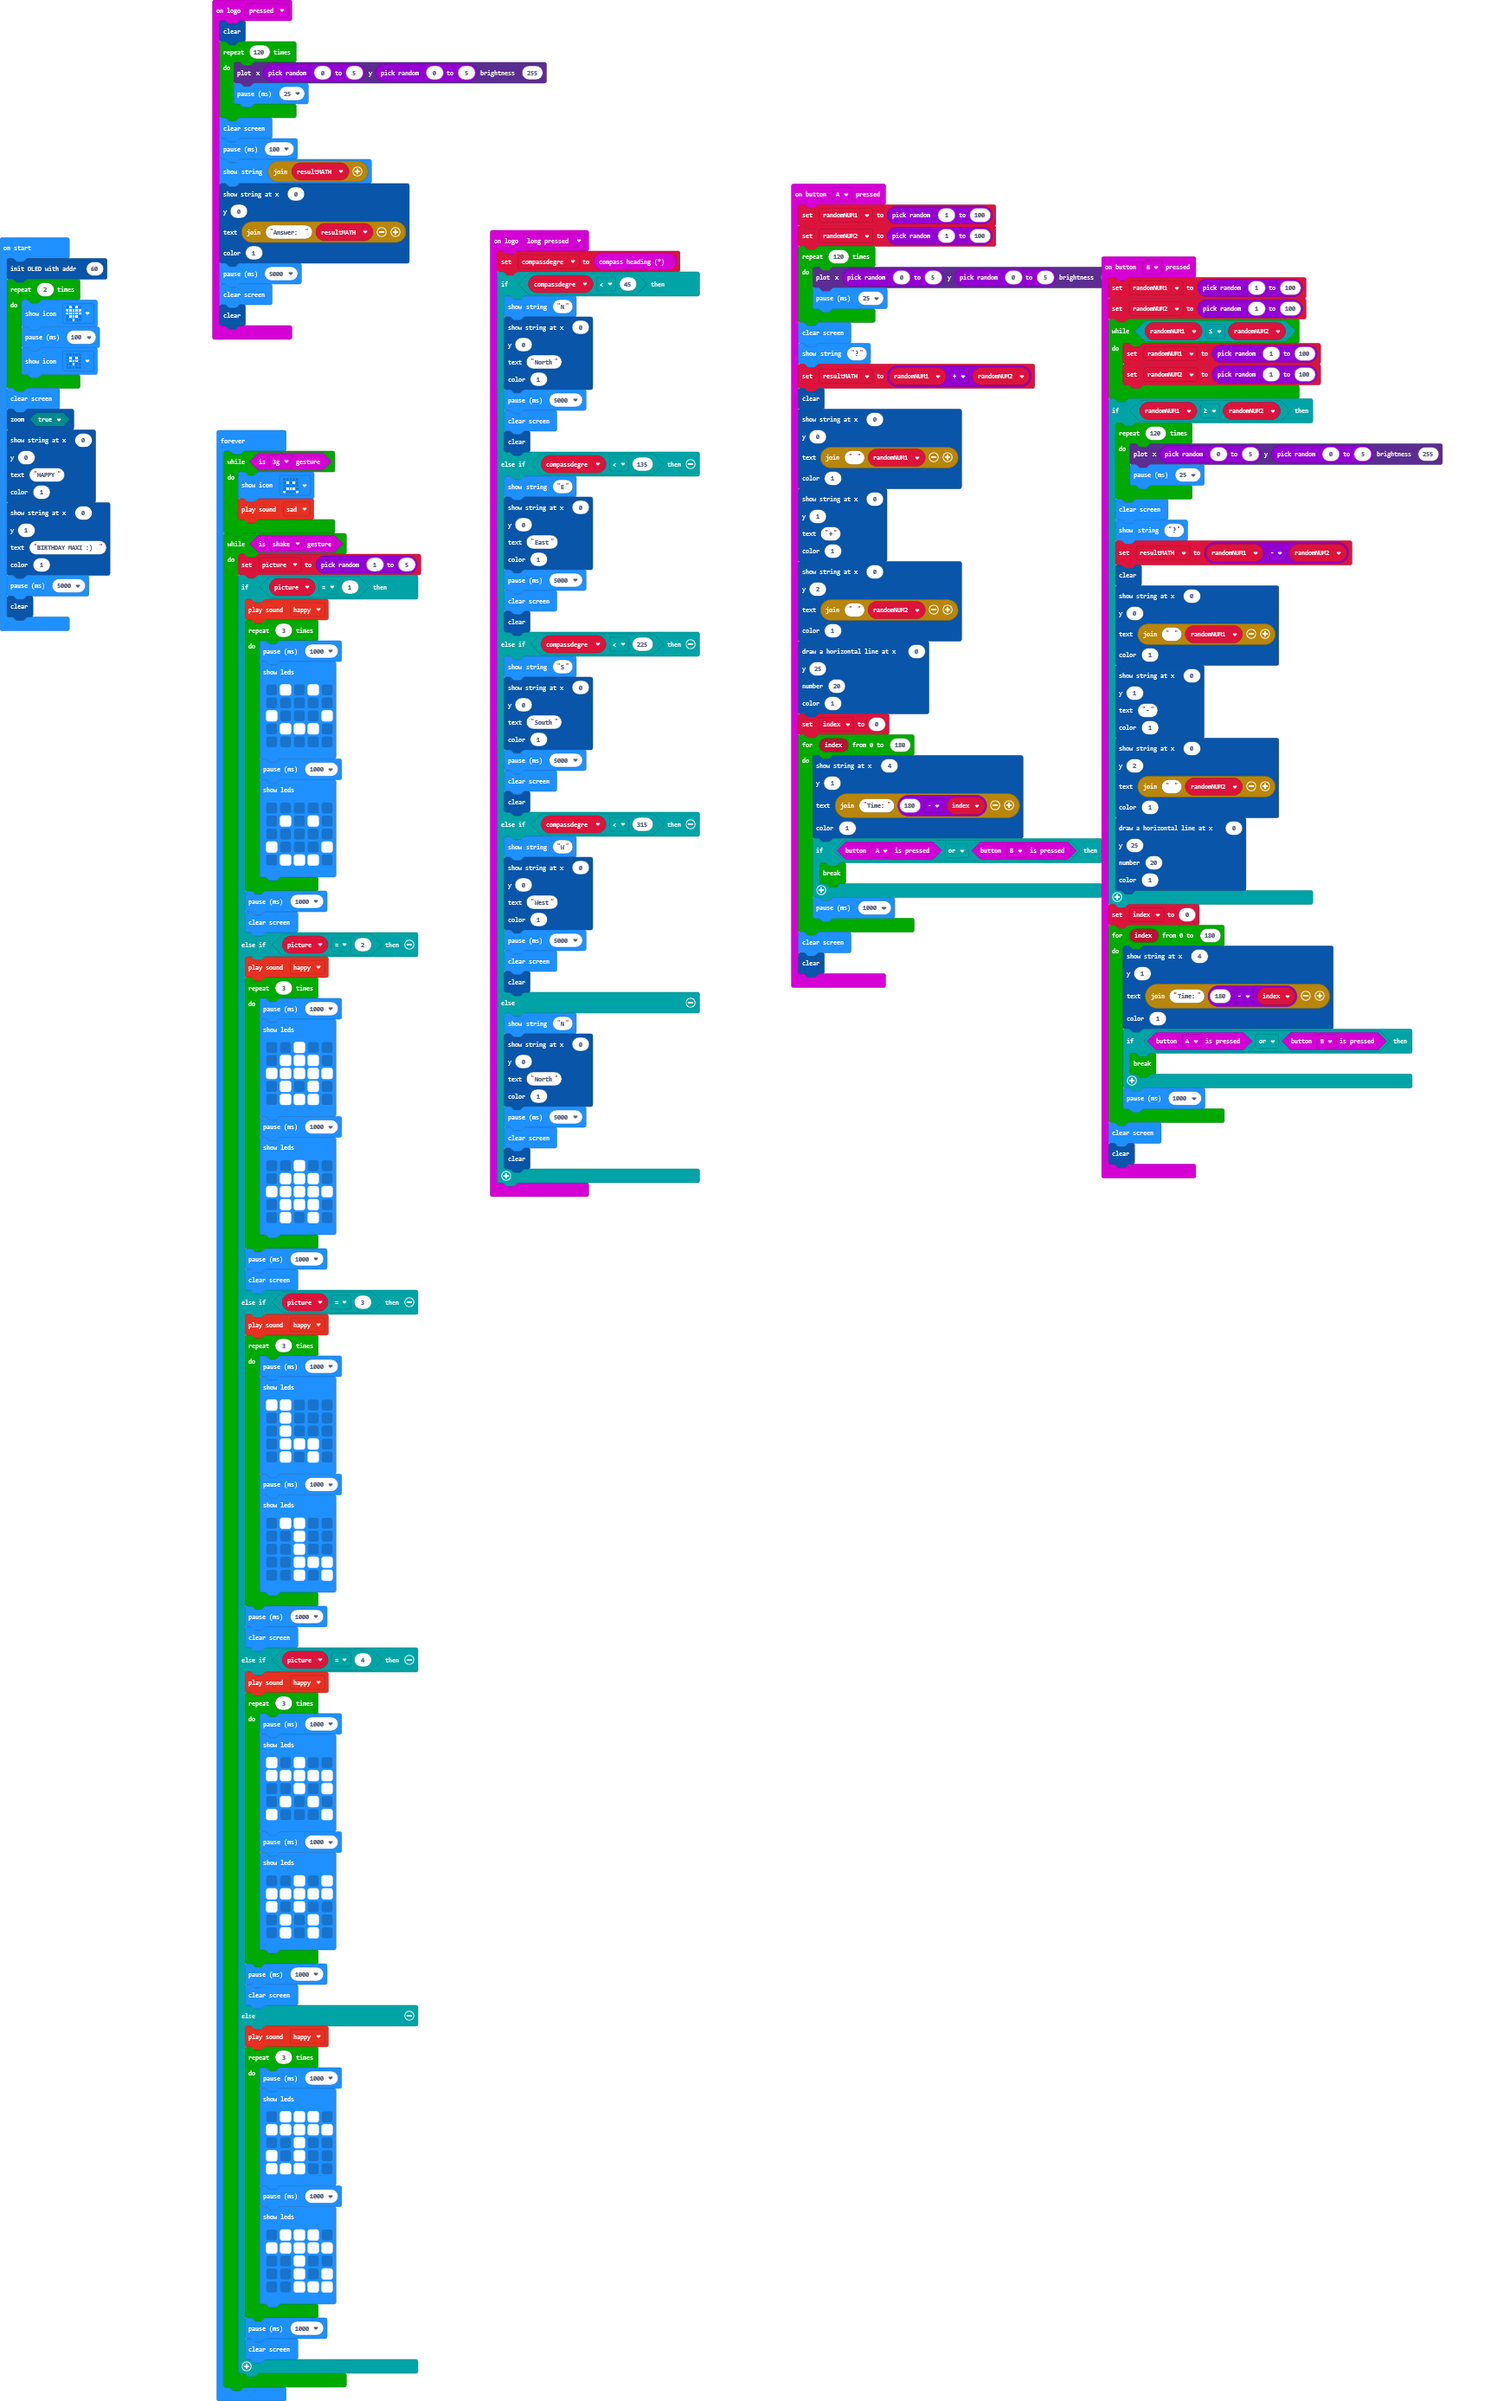
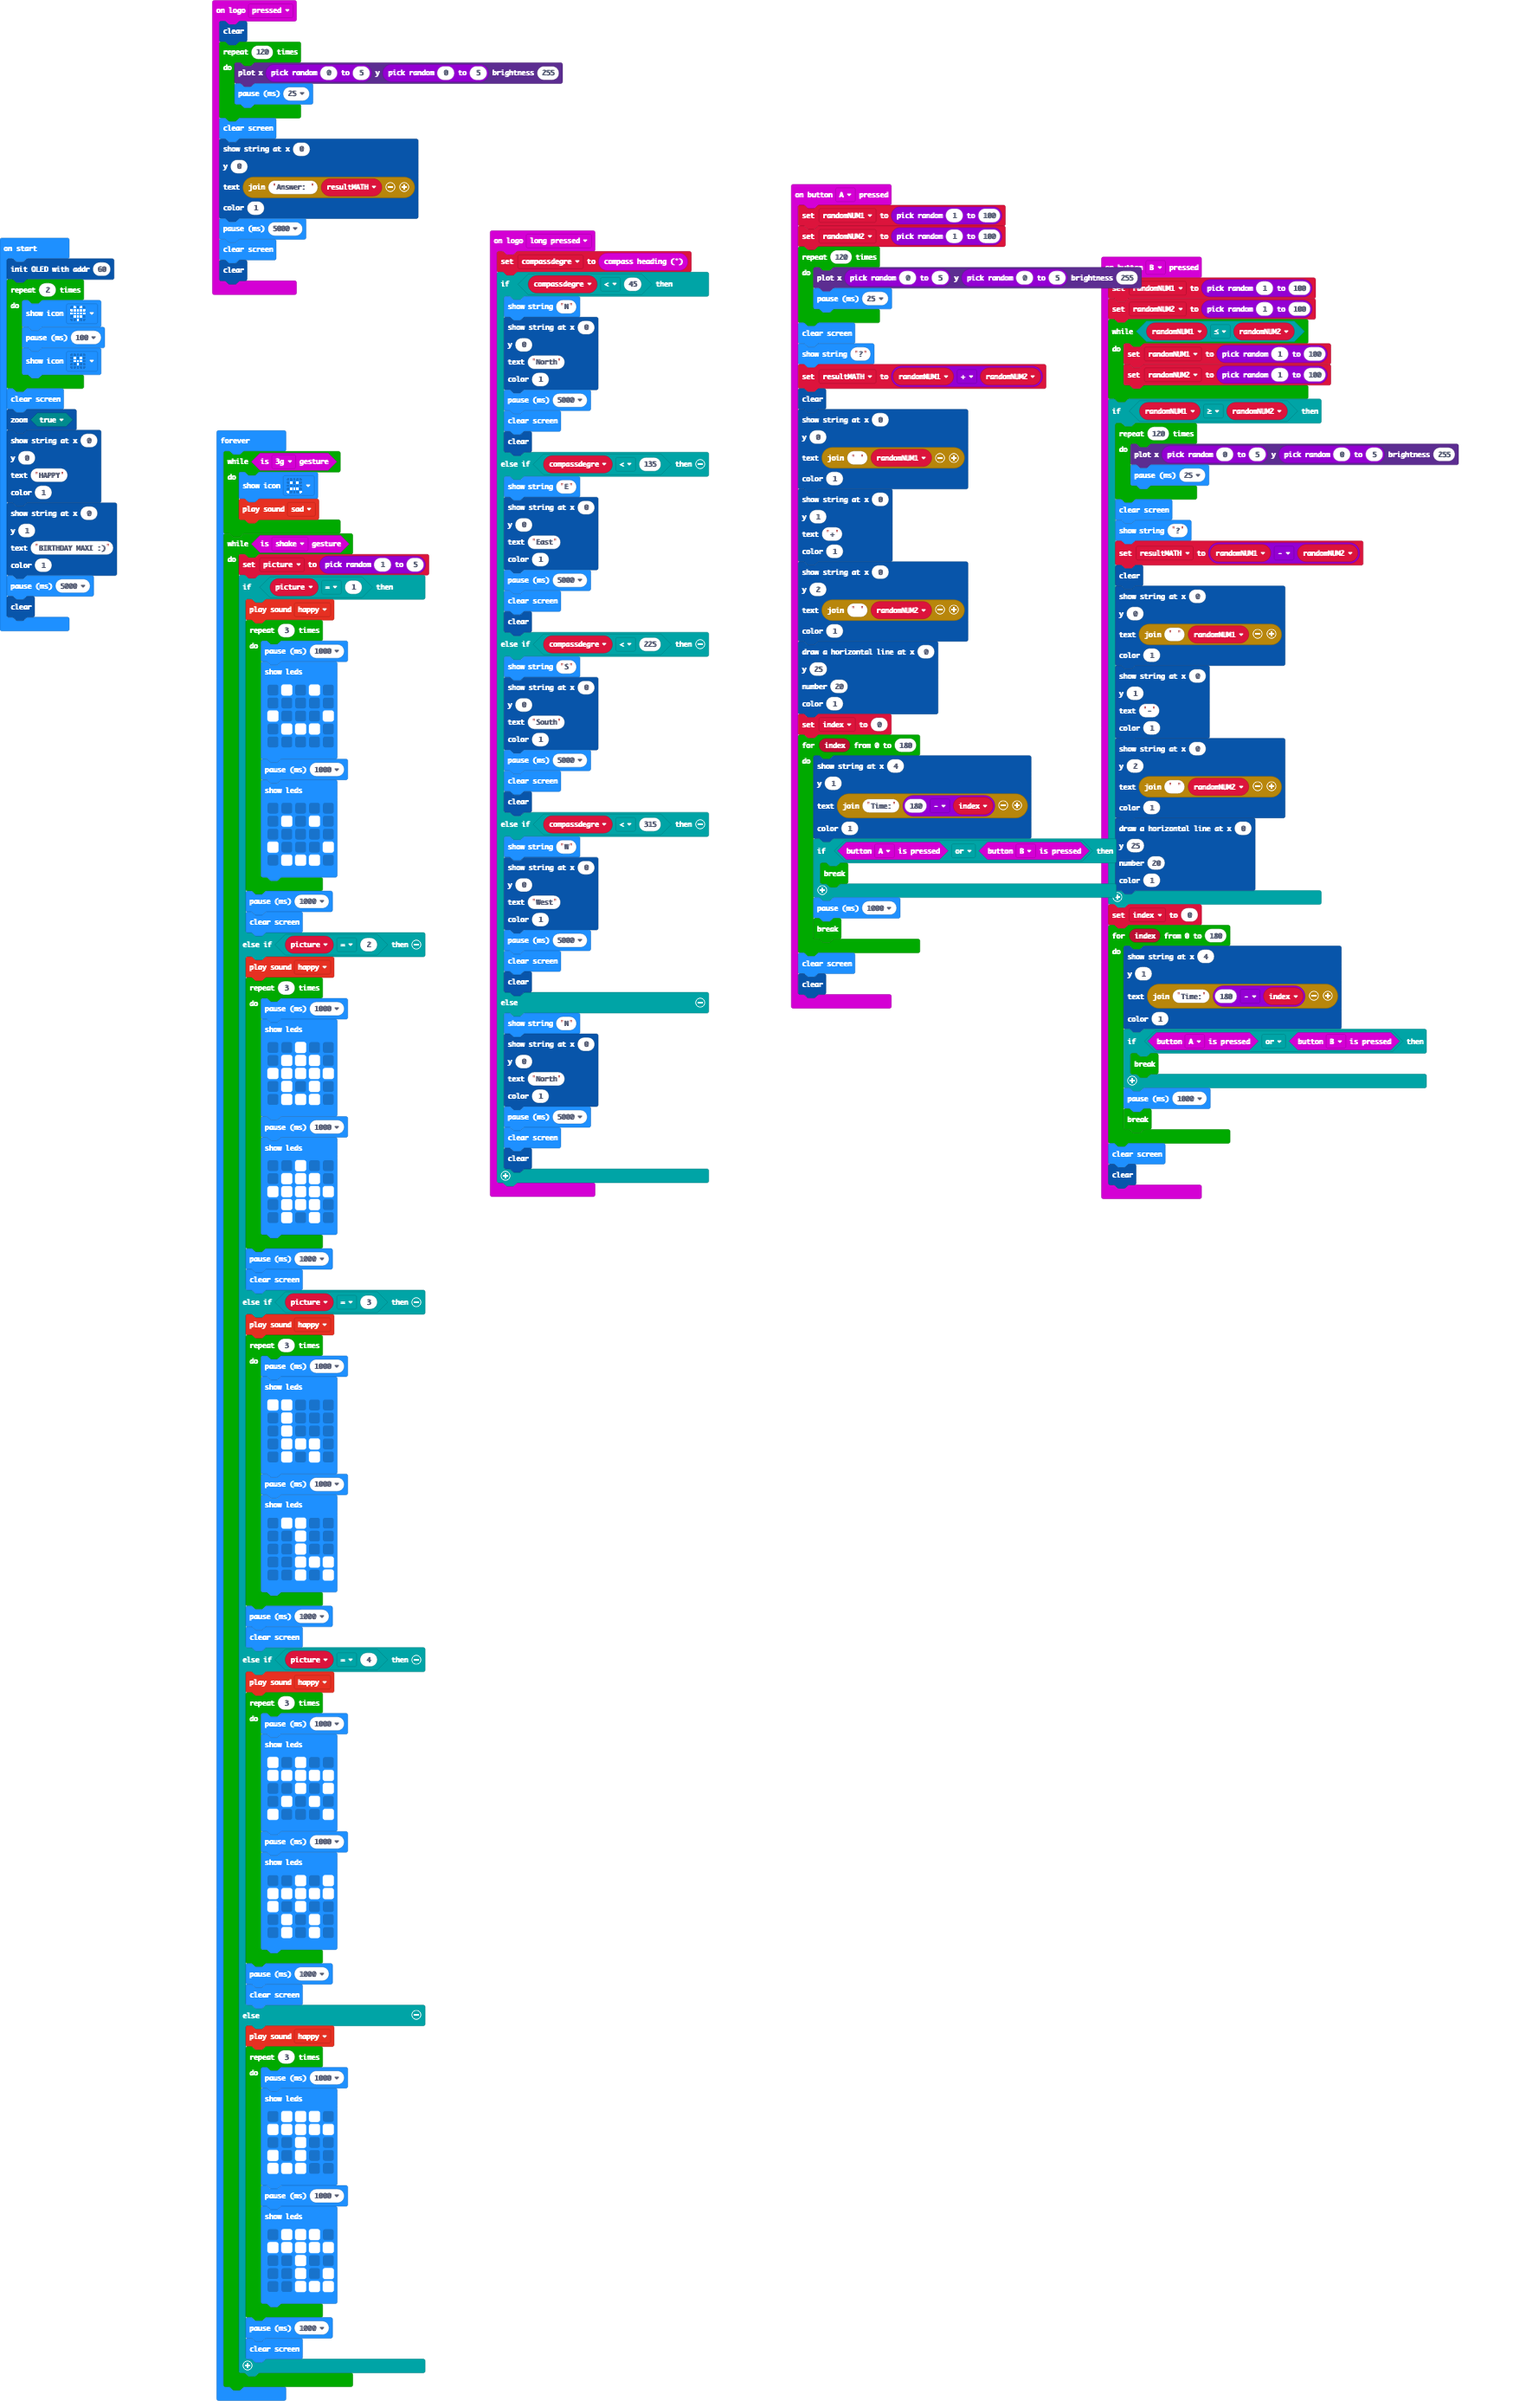
Update main.blocks, main.ts

diff --git a/main.ts b/main.ts
@@ -172,8 +172,6 @@ input.onLogoEvent(TouchButtonEvent.Pressed, function () {
         basic.pause(25)
     }
     basic.clearScreen()
-    basic.pause(100)
-    basic.showString("" + resultMATH)
     OLED12864_I2C.showString(
     0,
     0,
